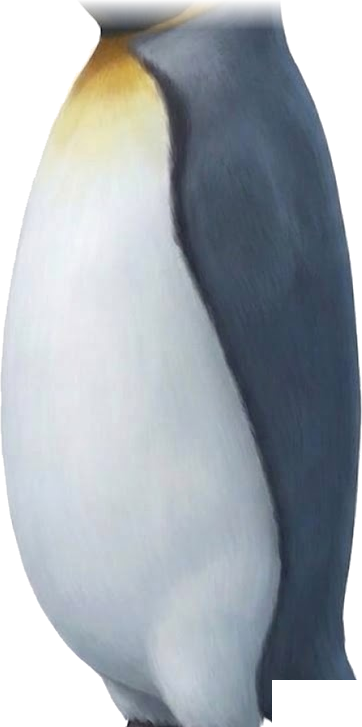
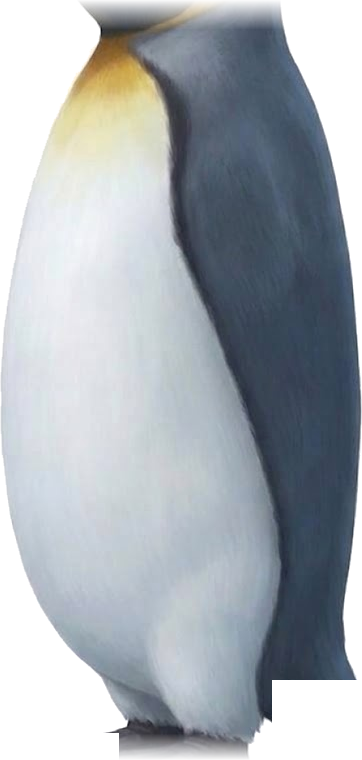
feat: stretch ranges in the rig, and a clean cut for the side feet
The cut script gives the bodies and heads a stretch range, lets the side
body turn to -150 degrees for a head-first dive, and lets the side feet
turn 20 degrees. The side feet are now cut from their dark pixels with a
soft ankle and share one pivot, and the body keeps a fading strip under
the ankles, so a turning foot shows no cut line, ghost or hole.

diff --git a/scripts/lib/kalman-cut.ts b/scripts/lib/kalman-cut.ts
@@ -105,6 +105,22 @@ export function figureAlpha(image: RawImage, background: Uint8Array, softness = 
   return alpha;
 }
 
+/**
+ * How dark each pixel is: 1 at or below `dark` brightness, 0 at or above `light`, a straight
+ * line in between (brightness as the eye weighs it: green counts most, blue least). The side
+ * feet are dark grey and the belly feathers over them white, so this tells them apart, with
+ * a soft transition on the feathered edge instead of a hard line.
+ */
+export function darknessMap(image: RawImage, dark = 110, light = 160): AlphaMap {
+  const map = new Float32Array(image.width * image.height);
+  for (let i = 0; i < map.length; i++) {
+    const [r, g, b] = rgbAt(image, i);
+    const brightness = 0.299 * r + 0.587 * g + 0.114 * b;
+    map[i] = Math.min(1, Math.max(0, (light - brightness) / (light - dark)));
+  }
+  return map;
+}
+
 /** Stops when two images that must line up pixel for pixel don't have the same size. */
 export function assertSameSize(a: RawImage, b: RawImage, what: string): void {
   if (a.width !== b.width || a.height !== b.height) {
@@ -470,7 +486,7 @@ export interface SideCutSettings {
     readonly bodyFrom: number;
     readonly bodySolid: number;
   };
-  /** The body ends at this row; the feet start a little above it (they overlap). */
+  /** The body is whole down to this row; below it only a strip under the ankles (`feet.stub`). */
   readonly bodyBottomRow: number;
   /**
    * The tail: everything from this row down and this column to the right. The body keeps the
@@ -478,9 +494,17 @@ export interface SideCutSettings {
    * tail is drawn behind the body, so the overlap doesn't show).
    */
   readonly tail: { readonly fromRow: number; readonly minX: number; readonly bodyOverlap: number };
-  /** The feet: from this row down; the back foot is the part left of `backMaxX` above `backMaxRow`. */
+  /**
+   * The feet: only their dark pixels, fading in from `fromRow` to `solidRow` (a soft ankle, like
+   * the neck), so a turning foot shows no straight cut and takes no white feathers along. The
+   * back foot is the part left of `backMaxX` above `backMaxRow`. `stub` is the strip under the
+   * ankles that the body keeps below `bodyBottomRow` (the white feathers and the ankles),
+   * fading out towards `stub.fadeTo`: painted leg behind a turning foot instead of a hole.
+   */
   readonly feet: {
     readonly fromRow: number;
+    readonly solidRow: number;
+    readonly stub: { readonly minX: number; readonly maxX: number; readonly fadeTo: number };
     readonly backMaxX: number;
     readonly backMaxRow: number;
   };
@@ -491,16 +515,24 @@ export interface SideCutSettings {
 
 /**
  * The side figure's parts as regions. The flipper is not a box but its traced outline, passed
- * in as a coverage map (`polygonCoverage()`); `width` is the image width, to look it up.
+ * in as a coverage map (`polygonCoverage()`); `darkness` (`darknessMap()`) tells the feet from
+ * the feathers over them; `width` is the image width, to look both up.
  */
 export function sideRegions(
   settings: SideCutSettings,
   flipper: AlphaMap,
+  darkness: AlphaMap,
   width: number,
 ): Record<string, PartRegion> {
   const { neck, bodyBottomRow, tail, feet } = settings;
   const headFade = ramp(neck.headFadeFrom, neck.headFadeTo);
   const bodyFade = ramp(neck.bodyFrom, neck.bodySolid);
+  const ankleFade = ramp(feet.fromRow, feet.solidRow);
+  const stubFade = ramp(bodyBottomRow, feet.stub.fadeTo);
+  const inStub = (x: number) => x >= feet.stub.minX && x <= feet.stub.maxX;
+  const dark = (x: number, y: number) => darkness[y * width + x] ?? 0;
+  /** How much of a pixel belongs to a foot: its darkness, faded in at the ankle. */
+  const footShare = (x: number, y: number) => dark(x, y) * ankleFade(y);
   const inTail = (x: number, y: number) => y >= tail.fromRow && x >= tail.minX;
   const inBackFoot = (x: number, y: number) =>
     y >= feet.fromRow && x <= feet.backMaxX && y < feet.backMaxRow;
@@ -511,11 +543,15 @@ export function sideRegions(
   return {
     head: (_x, y) => 1 - headFade(y),
     // Cut from the image without the flipper, so the body under the flipper is painted.
-    body: (x, y) =>
-      y < neck.bodyFrom || y >= bodyBottomRow || inTail(x, y - tail.bodyOverlap) ? 0 : bodyFade(y),
+    body: (x, y) => {
+      if (y < neck.bodyFrom || inTail(x, y - tail.bodyOverlap)) return 0;
+      if (y < bodyBottomRow) return bodyFade(y);
+      return inStub(x) ? 1 - stubFade(y) : 0;
+    },
     flipper: (x, y) => flipper[y * width + x] ?? 0,
-    footBack: (x, y) => yes(inBackFoot(x, y)),
-    footFront: (x, y) => yes(y >= feet.fromRow && !inBackFoot(x, y) && !inTail(x, y)),
+    footBack: (x, y) => (inBackFoot(x, y) ? footShare(x, y) : 0),
+    footFront: (x, y) =>
+      y >= feet.fromRow && !inBackFoot(x, y) && !inTail(x, y) ? footShare(x, y) : 0,
     tail: (x, y) => yes(inTail(x, y)),
     glasses: (x, y) => yes(inside(settings.glasses, x, y)),
     tie: (x, y) => yes(inside(settings.tie, x, y)),

diff --git a/scripts/cut-kalman-layers.ts b/scripts/cut-kalman-layers.ts
@@ -16,6 +16,7 @@ import sharp from 'sharp';
 import {
   assertSameSize,
   bodyCentreX,
+  darknessMap,
   cutPart,
   differenceAlpha,
   figureAlpha,
@@ -77,8 +78,25 @@ const PLACEMENT: Placement = { scale: 1.33, from: [CUT.centreX, 53], to: [800, 1
 
 /** Per layer: its file, its joint in the image (the pivot) and the rest of its rig entry. */
 const LAYERS = [
-  { name: 'body', file: 'body', pivot: [344, 900], parent: null, order: 20, rotate: [-15, 15] },
-  { name: 'head', file: 'head', pivot: [344, 236], parent: 'body', order: 30, rotate: [-25, 25] },
+  {
+    name: 'body',
+    file: 'body',
+    pivot: [344, 900],
+    parent: null,
+    order: 20,
+    rotate: [-15, 15],
+    // Squash and stretch (kalman-animation-feel design §6): around the feet, so he sinks.
+    stretch: [0.85, 1.15],
+  },
+  {
+    name: 'head',
+    file: 'head',
+    pivot: [344, 236],
+    parent: 'body',
+    order: 30,
+    rotate: [-25, 25],
+    stretch: [0.92, 1.08],
+  },
   {
     name: 'flipperLeft',
     file: 'flipper-left',
@@ -163,9 +181,16 @@ const SIDE = {
 /** Where the side figure's parts are, measured on side-goofy.png (outline per row, grid). */
 const SIDE_CUT: SideCutSettings = {
   neck: { headFadeFrom: 208, headFadeTo: 262, bodyFrom: 184, bodySolid: 214 },
-  bodyBottomRow: 912,
+  // Whole down to the ankles; below, a fading strip under them (kalman-animation-feel).
+  bodyBottomRow: 918,
   tail: { fromRow: 840, minX: 448, bodyOverlap: 25 },
-  feet: { fromRow: 905, backMaxX: 299, backMaxRow: 950 },
+  feet: {
+    fromRow: 898,
+    solidRow: 918,
+    stub: { minX: 295, maxX: 440, fadeTo: 945 },
+    backMaxX: 299,
+    backMaxRow: 950,
+  },
   glasses: [226, 66, 442, 162],
   tie: [178, 198, 477, 622],
 };
@@ -206,10 +231,20 @@ const SIDE_LAYERS = [
     pivot: [345, 560],
     parent: null,
     order: 20,
-    rotate: [-100, 100],
+    // Down to −150° so he can go into the water head first (kalman-animation-feel §6).
+    rotate: [-150, 100],
+    stretch: [0.85, 1.15],
     from: 'noFlipper',
   },
-  { name: 'head', pivot: [350, 236], parent: 'body', order: 30, rotate: [-30, 30], from: 'goofy' },
+  {
+    name: 'head',
+    pivot: [350, 236],
+    parent: 'body',
+    order: 30,
+    rotate: [-30, 30],
+    stretch: [0.92, 1.08],
+    from: 'goofy',
+  },
   {
     name: 'flipper',
     pivot: [405, 415],
@@ -218,20 +253,22 @@ const SIDE_LAYERS = [
     rotate: [-120, 60],
     from: 'goofy',
   },
+  // Both side feet share one pivot, so they turn as one piece when they turn together: the
+  // line between them in the drawing never shows (kalman-animation-feel).
   {
     name: 'footBack',
-    pivot: [290, 915],
+    pivot: [330, 914],
     parent: 'body',
     order: 12,
-    rotate: [-10, 10],
+    rotate: [-20, 20],
     from: 'goofy',
   },
   {
     name: 'footFront',
-    pivot: [365, 912],
+    pivot: [330, 914],
     parent: 'body',
     order: 25,
-    rotate: [-10, 10],
+    rotate: [-20, 20],
     from: 'goofy',
   },
   { name: 'tail', pivot: [452, 848], parent: 'body', order: 10, rotate: [-25, 25], from: 'goofy' },
@@ -317,6 +354,7 @@ for (const layer of LAYERS) {
     parent: layer.parent,
     order: layer.order,
     rotate: layer.rotate,
+    ...('stretch' in layer ? { stretch: layer.stretch } : {}),
     ...('accessory' in layer ? { accessory: true } : {}),
   });
   console.log(`${layer.name.padEnd(13)} ${part.box.width}×${part.box.height} px`);
@@ -341,6 +379,7 @@ const sideAlpha = {
 const sideRegionsByName = sideRegions(
   SIDE_CUT,
   polygonCoverage(SIDE_FLIPPER, side.goofy.width, side.goofy.height),
+  darknessMap(side.goofy),
   side.goofy.width,
 );
 const sidePlacement: Placement = {
@@ -365,6 +404,7 @@ for (const layer of SIDE_LAYERS) {
     parent: layer.parent,
     order: layer.order,
     rotate: layer.rotate,
+    ...('stretch' in layer ? { stretch: layer.stretch } : {}),
     ...('accessory' in layer ? { accessory: true } : {}),
   });
   console.log(`side ${layer.name.padEnd(9)} ${part.box.width}×${part.box.height} px`);

diff --git a/tests/unit/kalman-cut.test.ts b/tests/unit/kalman-cut.test.ts
@@ -8,6 +8,7 @@ import {
   assertSameSize,
   bodyCentreX,
   cutPart,
+  darknessMap,
   differenceAlpha,
   figureAlpha,
   findBackground,
@@ -263,19 +264,43 @@ describe('polygonCoverage', () => {
   });
 });
 
+describe('darknessMap', () => {
+  it('is 1 for the dark feet, 0 for white feathers, and soft in between', () => {
+    // Plumage (70, 80, 90) is darker than 110, white is brighter than 160; the grey in the
+    // middle has a brightness of exactly 135, halfway.
+    const image: RawImage = {
+      width: 3,
+      height: 1,
+      channels: 3,
+      data: new Uint8Array([...DARK, 135, 135, 135, ...WHITE]),
+    };
+    const map = darknessMap(image);
+    expect([map[0], map[1], map[2]]).toEqual([1, 0.5, 0]);
+  });
+});
+
 describe('sideRegions', () => {
   const settings: SideCutSettings = {
     neck: { headFadeFrom: 4, headFadeTo: 8, bodyFrom: 3, bodySolid: 6 },
     bodyBottomRow: 30,
     tail: { fromRow: 26, minX: 30, bodyOverlap: 2 },
-    feet: { fromRow: 28, backMaxX: 12, backMaxRow: 31 },
+    feet: {
+      fromRow: 28,
+      solidRow: 30,
+      stub: { minX: 5, maxX: 15, fadeTo: 34 },
+      backMaxX: 12,
+      backMaxRow: 31,
+    },
     glasses: [10, 1, 20, 4],
     tie: [8, 6, 14, 18],
   };
   // A 40-wide image with a flipper covering column 25 from row 10 to 19.
   const flipper = new Float32Array(40 * 40);
   for (let y = 10; y < 20; y++) flipper[y * 40 + 25] = 1;
-  const regions = sideRegions(settings, flipper, 40);
+  // Everything dark (feet), except column 18: light feathers hanging over the feet.
+  const darkness = new Float32Array(40 * 40).fill(1);
+  for (let y = 0; y < 40; y++) darkness[y * 40 + 18] = 0;
+  const regions = sideRegions(settings, flipper, darkness, 40);
   const take = (part: string, x: number, y: number) => regions[part]?.(x, y);
 
   it('takes the flipper from its traced outline, and the body under it as well', () => {
@@ -292,9 +317,25 @@ describe('sideRegions', () => {
   });
 
   it('splits the feet into the back foot (left, upper) and the front foot', () => {
-    expect([take('footBack', 10, 29), take('footFront', 10, 29)]).toEqual([1, 0]);
+    expect([take('footBack', 10, 30), take('footFront', 10, 30)]).toEqual([1, 0]);
     expect([take('footBack', 10, 32), take('footFront', 10, 32)]).toEqual([0, 1]);
-    expect([take('footBack', 20, 29), take('footFront', 20, 29)]).toEqual([0, 1]);
+    expect([take('footBack', 20, 30), take('footFront', 20, 30)]).toEqual([0, 1]);
+  });
+
+  it('gives the feet only their dark pixels, fading in at the ankle', () => {
+    // The light feathers over the feet stay off the foot, so a turning foot takes none along.
+    expect(take('footFront', 18, 32)).toBe(0);
+    // Halfway between the ankle's first row (28) and its solid row (30): half.
+    expect(take('footFront', 20, 29)).toBe(0.5);
+    expect(take('footFront', 20, 27)).toBe(0);
+  });
+
+  it('keeps a fading strip under the ankles in the body, and nothing else below it', () => {
+    expect(take('body', 10, 29)).toBe(1);
+    // Below the body's bottom row (30): inside the strip, fading out towards row 34.
+    expect([take('body', 10, 30), take('body', 10, 32), take('body', 10, 34)]).toEqual([1, 0.5, 0]);
+    // Outside the strip nothing, so no ghost of a foot's outline stays behind.
+    expect(take('body', 20, 32)).toBe(0);
   });
 
   it('fades the head into the neck', () => {

diff --git a/tests/unit/kalman-rig-data.test.ts b/tests/unit/kalman-rig-data.test.ts
@@ -84,6 +84,21 @@ describe('the poses in the repo', () => {
     for (const name of REQUIRED_POSES[figure]) expect(names).toContain(name);
   });
 
+  it('turn both side feet by the same amount, so they move as one piece', () => {
+    // The side feet share one pivot; turned differently, the straight line between them in the
+    // drawing would show (kalman-animation-feel, task 1.4).
+    const rigs = repoRigs();
+    for (const data of poses.filter((p) => p.figure === 'side')) {
+      // Validated first, so the pose has its proper type (the raw JSON's type is too narrow).
+      const result = validateFigurePose(data, rigs);
+      if (!result.ok) throw new Error(result.errors.join(' '));
+      const { name, layers } = result.value;
+      const back = layers['footBack']?.rotate ?? 0;
+      const front = layers['footFront']?.rotate ?? 0;
+      expect({ pose: name, back }).toEqual({ pose: name, back: front });
+    }
+  });
+
   it('all belong to a figure and are valid for its rig', () => {
     const rigs = repoRigs();
     for (const pose of poses) {

diff --git a/openspec/changes/kalman-animation-feel/design.md b/openspec/changes/kalman-animation-feel/design.md
@@ -61,7 +61,7 @@ The two `back` eases are allowed: they go slightly past the target and settle ba
 - **Alternative:** children follow only the moved attachment point and keep their shape: a second movement per layer, and the tie would no longer fit the squashed belly.
 
 ### 6. Stretch and rotation ranges in the rig, from the cut script
-`RigLayer` gets an optional `stretch: [min, max]` that must include 1; a layer without it may not stretch. The ranges are settings in `scripts/cut-kalman-layers.ts`, so `rig.json` stays fully generated. Starting ranges: the front and side **body** [0.85, 1.15], the **head** [0.92, 1.08]. The side **body** rotation becomes [−150, 100], so he can go into the water head down; the side **feet** become ±30° so they can trail.
+`RigLayer` gets an optional `stretch: [min, max]` that must include 1; a layer without it may not stretch. The ranges are settings in `scripts/cut-kalman-layers.ts`, so `rig.json` stays fully generated. Starting ranges: the front and side **body** [0.85, 1.15], the **head** [0.92, 1.08]. The side **body** rotation becomes [−150, 100], so he can go into the water head down. The side **feet** become ±20° so they can trail, and share **one pivot**, so they always turn together as one piece. *(Changed during apply, approved by Raymond: at ±30° and with two pivots the cut showed. The feet are now cut from their dark pixels only, with a soft ankle like the neck, and the body keeps a fading strip under the ankles, so a turning foot takes no white feathers along and leaves no hole.)*
 
 ### 7. The drawn bow is a whole drawn pose, cut like a turntable view
 Raymond's bowed images redraw the whole upper body (hunched shoulders, head sunk into the chest), while the lower half lines up exactly with `front-goofy.png`. So the bow uses them as a **whole drawing**, not as a new head layer. The cut script cuts them like a turntable view (figure out of the white background, plumage matched, feet on the front figure's ground line, body on its centre line) and writes `src/scene/kalman/drawn-poses.json` with a goofy and a professional image per drawn pose. `KalmanFigure.astro` draws them hidden, like the turntable views.
@@ -101,7 +101,7 @@ Each layer with a stretch range gets a stretch slider (step 0.01) below the rota
 - [The drawn bow's colours differ from the layers] → The cut script matches its plumage tone to the front view, as it does for the turntable.
 - [Stretching a child inside a squashed parent shears it slightly] → The ranges stay small (±15%); checked by eye and with the snapshots.
 - [Squash opens a seam at the neck or shoulders] → The head and flippers move with the body through the matrix chain, and the neck fade already hides the head's edge; the ranges can shrink if a seam shows.
-- [Wider side ranges (body −150°, feet ±30°) show a cut edge] → Checked at the ends of the range in the preview before the poses use them.
+- [Wider side ranges (body −150°, feet ±20°) show a cut edge] → Checked at the ends of the range before the poses use them; a data test keeps both side feet turning by the same amount.
 - [Lag makes a layer look detached] → Only its own rotation and stretch lag; where it hangs is still decided by its parent *now*.
 - [Clamping flattens an overshoot at the end of a range] → Only visible when a pose sits at the edge; such poses get a little room, or the ease becomes `power2.out`.
 - [The horizontal swim reads as lying still] → The surge, the drift and the trailing feet carry the motion; in Phase 2 the scene moving past him adds the speed.

diff --git a/openspec/changes/kalman-animation-feel/tasks.md b/openspec/changes/kalman-animation-feel/tasks.md
@@ -5,7 +5,7 @@
 - [x] 1.1 Add `stretch?: number` to `LayerPose` and `stretch?: Pair` to `RigLayer` in `src/lib/kalman-rig.ts`, with a `scaleAround()` matrix helper, and stretch each layer around its pivot in `resolvePose()` (design §1, §5); verify with unit tests: stretch 0.9 is 10% shorter and 1/0.9 wider with the pivot in place, no stretch changes nothing, the stretch turns with the layer, and a child's pivot stays attached on a squashed parent
 - [x] 1.2 Validate stretch: `validateRig()` rejects a stretch range that is empty, inverted or without 1; `validatePose()` rejects a stretch outside the range, a stretch for a layer without a range, and a stretch that is not a finite number; verify with one unit test per message
 - [x] 1.3 Add `clampToRig(pose, rig)` (design §4), which keeps every rotation and stretch inside its range and leaves offsets alone; verify with unit tests at, inside and beyond both ends of a range
-- [ ] 1.4 Add the stretch ranges to `scripts/cut-kalman-layers.ts` (body [0.85, 1.15] and head [0.92, 1.08] for both figures), widen the side body's rotation to [−150, 100] and the side feet's to ±30° (design §6); verify `npm run cut:kalman` writes them to `rig.json`, `check:kalman` passes, and the side body at −150°, the side feet at ±30° and the bodies at both stretch ends show no cut edge or seam in the preview (screenshots)
+- [x] 1.4 Add the stretch ranges to `scripts/cut-kalman-layers.ts` (body [0.85, 1.15] and head [0.92, 1.08] for both figures), widen the side body's rotation to [−150, 100] and the side feet's to ±20° with one shared pivot, cutting the side feet from their dark pixels with a soft ankle (design §6); verify `npm run cut:kalman` writes them to `rig.json`, `check:kalman` passes, unit tests for the new cut and a data test that both side feet turn together, and the side body at −150°, the side feet at ±20° and the bodies at both stretch ends show no cut edge or seam in the preview (screenshots)
 - [ ] 1.5 Update `docs/architecture.md` (stretch in the matrix chain), `docs/glossary.md` (squash and stretch) and `src/scene/README.md` (the `stretch` field in poses and the rig); verify they match the code
 
 ## 2. Lag, overshoot and length in the animations

diff --git a/PLANNING_LOG.md b/PLANNING_LOG.md
@@ -100,3 +100,4 @@ Append-only: one line per decision. Never rewrite an earlier line.
 - 2026-10-27 — The bow uses Raymond's bowed images as a whole drawn pose that cross-fades in at the deepest moment, cut like a turntable view, because Gemini redrew the whole upper body; the images are regenerated with warmer eyes and the professional ear patches kept in place. Decided by: Raymond (proposed by Claude).
 - 2026-10-27 — Tempo: animations may be longer where the feeling needs it (bow ~2.4 s, dive ~2.2 s, swim loop ~3.6 s, launch ~2.8 s). Travel: he stays in his spot sideways and moves up and down only where the story asks for it; the swim stays in place because Phase 2's scene moves past him. Decided by: Claude (at Raymond's request).
 - 2026-10-27 — He swims horizontally like a torpedo, enters the water face first (side body range widened to −150°), and lands on his feet after the launch. Decided by: Claude (from Raymond's references).
+- 2026-10-27 — The side feet turn ±20° (not ±30°) around one shared pivot, so they always move as one piece; they are cut from their dark pixels with a soft ankle, and the body keeps a fading strip under the ankles. Found while building: at ±30° and with two pivots the cut showed. Decided by: Raymond (proposed by Claude).
